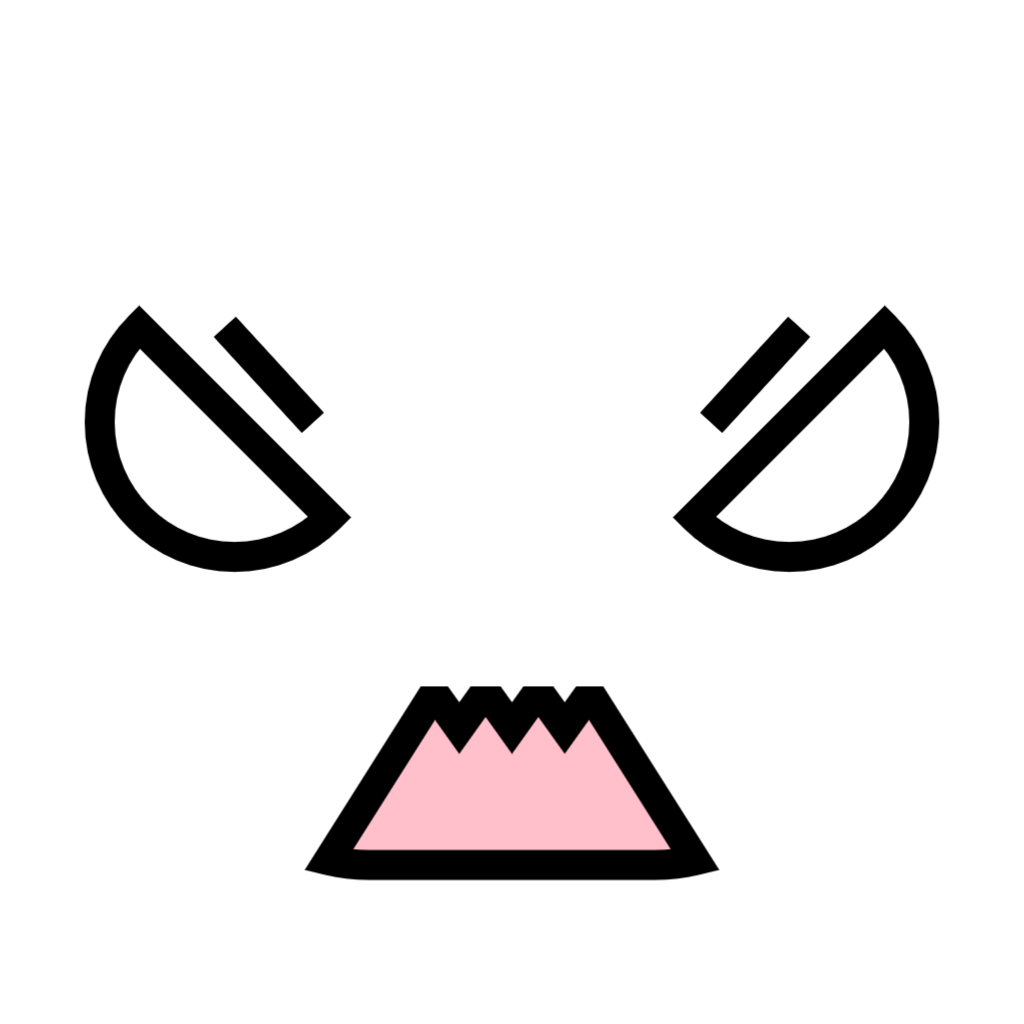
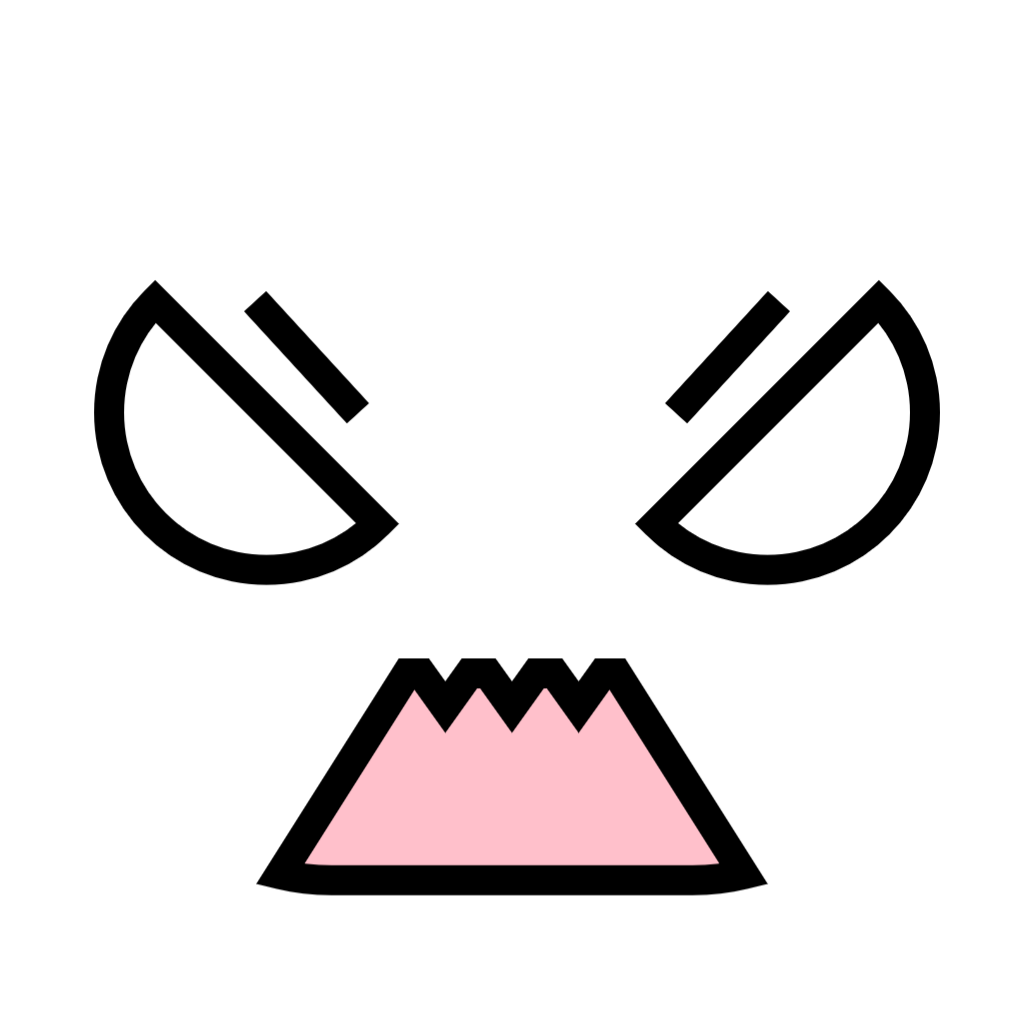
Face expression change when damaged

Changed region(s): [[0.25, 0.625, 0.75, 0.875], [0.0625, 0.2812, 0.4062, 0.5938], [0.625, 0.2812, 0.9375, 0.5938]]

diff --git a/Assets/Scripts/Game/PlayerHealth.cs b/Assets/Scripts/Game/PlayerHealth.cs
@@ -9,6 +9,10 @@ public class PlayerHealth : MonoBehaviour
     [SerializeField] private Animator _animator;
     [SerializeField] private Transform _playerTransform;
 
+    [SerializeField] private Renderer _faceRenderer;
+    [SerializeField] private List<Material> _defaultMaterial;
+    [SerializeField] private List<Material> _damageMaterial;
+
     public event EventHandler OnPlayerDeath;
     public event EventHandler<int> OnHealthChanged;
 
@@ -21,6 +25,7 @@ public class PlayerHealth : MonoBehaviour
     private void Start()
     {
         _health = MAX_HEALTH;
+        _faceRenderer.SetMaterials(_defaultMaterial);
         _playerCollision.OnPlayerCollision += OnPlayerCollision;
         _stageProgress = StageProgress.GetInstance();
         _stageProgress.OnStageClear += OnStageClear;
@@ -39,6 +44,7 @@ public class PlayerHealth : MonoBehaviour
         if (_canBeDamaged)
         {
             _health--;
+            _faceRenderer.SetMaterials(_damageMaterial);
             OnHealthChanged?.Invoke(this, _health);
             if (_health <= 0)
             {
@@ -48,9 +54,16 @@ public class PlayerHealth : MonoBehaviour
             }
             else
             {
+                StartCoroutine(DamageFace());
                 _animator.SetTrigger("Hit");
             }
         }
+    }
+
+    private IEnumerator DamageFace()
+    {
+        yield return new WaitForSeconds(0.75f);
+        _faceRenderer.SetMaterials(_defaultMaterial);
     }
 
     private IEnumerator DeathAnimation()
@@ -84,6 +97,7 @@ public class PlayerHealth : MonoBehaviour
     {
         _health = MAX_HEALTH;
         _canBeDamaged = true;
+        _faceRenderer.SetMaterials(_defaultMaterial);
         _playerTransform.localPosition = _originalPosition;
         _animator.SetTrigger("Reset");
         OnHealthChanged?.Invoke(this, _health);
